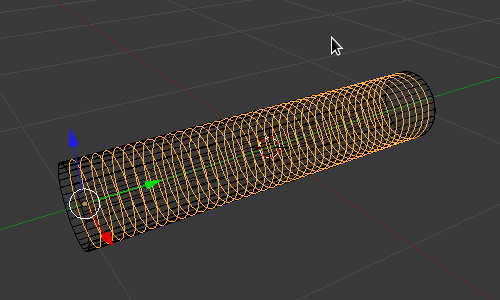
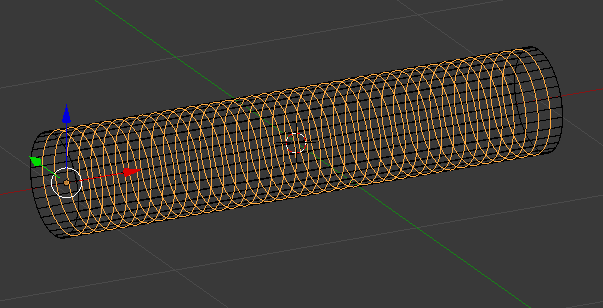
Reworked the building of the sampling cylinders and planes.

diff --git a/ficks_laws.rst b/ficks_laws.rst
@@ -1,8 +1,8 @@
 .. _fick:
 
-*********************************************
++++++++++++++++++++++++++++++++++++++++++++++++
 Fick's 1st and 2nd Laws
-*********************************************
++++++++++++++++++++++++++++++++++++++++++++++++
 
 Our goal in this tutorial is to evaluate Fick’s 1st and 2nd Laws using 
 simulations of discrete diffusing particles. To do so, we design the 
@@ -33,17 +33,38 @@ The second part of the tutorial will involve building the "instrumentation"
 required to measure the concentration along the cylinder. This will be much
 more tedious.
 
+Before getting started, you might find it helpful to watch the following video.
+This video walks you through the entire process of building, instrumenting, and
+running the simulation. However, the video was made with an earlier version of
+CellBlender and is not completely accurate when used with the current CellBlender.
+However, it does provide a good overview of the entire process. Additionally most
+of the Blender geometry manipulation hasn't changed much, so you might be able to
+follow those sections directly.
 
 .. warning::
 
+   This video was made with older versions of both Blender and CellBlender.
+   Much of the mesh manipulation is the same but the interface may look different.
+   Additionally, as noted above, the cylinder is built along the "x" axis in the
+   current verion of this tutorial while it was built along the "y" axis in the video.
 
-   Note that the second portion of this tutorial is not completed yet.
+.. raw:: html
+
+    <video id="my_video_1" class="video-js vjs-default-skin" controls
+      preload="metadata" width="960" height="540" 
+      data-setup='{"example_option":true}'>
+      <source src="http://www.mcell.psc.edu/tutorials/videos/main/ficks_laws.ogg" type='video/ogg'/>
+    </video>
+
+.. _blend file: https://www.mcell.org/tutorials/downloads/ficks_law.blend
 
 
-.. _fick_create_mesh: 
 
-Create the Cylinder Geometry
----------------------------------------------
+
+
+*****************************************************
+Part 1: Building the Model and Running the Simulation
+*****************************************************
 
 Begin by starting Blender with CellBlender enabled.
 
@@ -52,7 +73,14 @@ key until all objects - Cube, lamp, camera - are highlighted (orange outline).
 Then hit the **x** key and click **Delete** to delete the default Cube, lamp, 
 camera, and anything else in your scene.
 
-Next, create a cylinder by hitting **Shift-a**, and selecting
+
+
+.. _fick_create_mesh: 
+
+Create the Cylinder Geometry
+---------------------------------------------
+
+Create a cylinder by hitting **Shift-a**, and selecting
 **Mesh>Cylinder**. Hit **s**, **Shift-z**, **0.2**, and **Enter** to confirm.
 Hit **r**, **y**, **90**, and **Enter** to rotate it 90 degrees around the
 y-axis (aligns cylinder along the x axis). This will be the main cylinder through
@@ -88,7 +116,7 @@ See :ref:`define_region` if you need help with this.
 .. image:: ./images/CellBlender_model_objects_panel_add_reg.png
 .. image:: ./images/CellBlender_model_objects_panel_regions_added.png
 
-Then, enter **Edit Mode** by hitting **Tab**.
+Then, enter **Edit Mode** by hitting **Tab** (with mouse cursor in 3D window).
 
 In order to select all vertices on both sides of an object (what we want),
 you should disable the "Limit selection to visible" button by clicking
@@ -108,8 +136,10 @@ dragging around it.
 .. image:: ./images/Ficks_Box_Selected_Left.png
 
 Go back to the Model Objects subpanel and select the "**left_end**" region that you
-created earlier. Then click the "**Assign**" button to tag those faces as the "left_end"
-of your Cylinder.
+created earlier. Then click the "**Assign**" button to tag those selected faces to the
+"left_end" surface region of your Cylinder.
+
+.. image:: ./images/Ficks_Assign_Button.png
 
 Hit **a** to deselect everything in the mesh. Then repeat the process for the
 right end of your cylinder (assign the faces on the right end to the "right_end"
@@ -306,7 +336,7 @@ If this is not working properly, now is the time to go back and correct any prob
 Full Length Simulation
 ---------------------------------------------
 
-If everything has gone as expected, try running for the entire length of 5000 iterations.
+If everything has gone as expected, try running for the entire time length of 5000 iterations.
 
 Change the **Iterations** from to "**iters / 10**" back to "**iters**" and run again.
 
@@ -327,113 +357,162 @@ following animation (although this one is sampled in non-linear time):
 .. image:: ./images/Ficks_animation.gif
 
 
+*****************************************************
+Part 2: Instrumentation and Measurements
+*****************************************************
 
+The model built and run in the previous section is complete, and we will not
+be modifying it in this section. We will, however, add some "instrumentation"
+which will help us make measurements so we can quantify the results obtained
+from that simulation.
 
+Our "instrumentation" will consist of a series of disks and very short cylinder
+volumes which divide the cylinder along its length to facilitate counting of the
+molecules by MCell. In this tutorial we will divide the cylinder into 40 segments.
+This can be done manually (segment by segment) or it can be automated. We will show
+some aspects of each approach.
 
-SECOND PORTION OF TUTORIAL (not finished yet)
----------------------------------------------
+To create the geometry, we will demonstrate Blender's built-in array capability.
 
-
-
-If you would rather skip the mesh creation part, you can simply download the
-`blend file`_ and advance to the :ref:`fick_annotate` section. Otherwise you
-should watch the video or follow along with the instructions after the video.
-
+To create the MCell model will use a text editor to duplicate MDL sections repeatedly.
+While this process is somewhat tedious, it does suggest the possibility of using
+a simple program for the repetition. These are all valid approaches that might be
+helpful in certain circumstances.
 
 .. warning::
 
-   This video was made with older versions of both Blender and CellBlender.
-   Much of the mesh manipulation is the same but the interface may look different.
-   Additionally, as noted above, the cylinder is built along the "x" axis in the
-   newer version.
+   Note that any MDL modified by hand cannot currently be imported back into
+   CellBlender. This might influence your decision on which approach to use.
 
-.. raw:: html
+Before getting started, let's hide the molecules that we've been simulating
+so they don't get in the way of our mesh building operations. In the upper
+right corner of the standard Blender screen layout you will find a panel known
+as the "Outliner" (shown below). The outliner can be used to show and explore
+all of the objects in the Blender scene (and more). For our purposes here, we
+just want to be able to show and hide the molecule that have been created by
+the simulation. These are all contained under the "molecules" object, so click
+the small plus sign next to the name "molecules" and that will display one line
+for each type of molecule ("species") that's been created in our simulation.
 
-    <video id="my_video_1" class="video-js vjs-default-skin" controls
-      preload="metadata" width="960" height="540" 
-      data-setup='{"example_option":true}'>
-      <source src="http://www.mcell.psc.edu/tutorials/videos/main/ficks_laws.ogg" type='video/ogg'/>
-    </video>
+.. image:: ./images/Ficks_outliner_panel.png
 
-.. _blend file: https://www.mcell.org/tutorials/downloads/ficks_law.blend
+In this case, we've only defined one molecule type that we've called "vm",
+so we only see the entry "mol_vm" in the list. If you click on the "eye" symbol
+on that line it will toggle the display of the molecules. Click it a few
+times to hide and show the molecules. You'll notice that you can do the same
+for the Cylinder (or any other object in the scene). For this next step, we
+want to show the Cylinder but hide the molecules. Be sure to leave the outliner
+in that state before proceding. The next step also assumes that your 3D cursor
+is at the origin. You can ensure this with "**Shift-S**" and then clicking on
+"**Cursor to Center**".
+
+.. note:: Blender uses the right mouse button for most selection, but this runs
+   counter to the common "left click" used by common software. In Blender, the
+   left click moves the 3D cursor - which is where new objects are placed. For
+   this reason, it's handy to remember that the 3D cursor can be reset back to
+   the origin with the "**Shift-S**" / "**Cursor to Center**" sequence.
 
 
+Building Sampling Cylinders
+---------------------------------------------
 
-We now need to create a series of shorter sampling cylinders inside the long
-one. To do so, hit **Shift-a** and once again select **Mesh>Cylinder**. We will
-make these sampling cylinders slightly smaller than the main cylinder to avoid
+We begin our "instrumentaion" by creating a series of short sampling cylinders
+inside the long one. To do so, hit **Shift-a** and once again select **Mesh>Cylinder**.
+We will make these sampling cylinders slightly smaller than the main cylinder to avoid
 coincident meshes: Hit **s**, **Shift-z**, **0.199**, and **Enter**. Hit **r**,
-**x**, **90**, and **Enter**. Next, hit **s**, **y**, **0.024875**, and
-**Enter**. Hit **g**, **y**, and **-0.975** to move it very close to the left
-end of the end of larger cylinder (they don't touch though). 
+**y**, **90**, and **Enter**. Next, hit **s**, **x**, **0.024875**, and
+**Enter**. Hit **g**, **x**, and **-0.975** followed by **Enter** to move it very
+close to the left end of the end of larger cylinder (they don't touch though).
 
-Rename this smaller cylinder from **Cylinder.001** to **C**. Be sure to
-triangulate this mesh in the same way we did with the larger cylinder.
+Triangulate this small cylinder by entering Edit mode with **Tab**, then pressing
+**Control-T**, then exiting Edit mode with **Tab**.
+
+Using the outliner, rename this smaller cylinder from **Cylinder.001** to **C**
+by double clicking on the **Cylinder.001** and typing **C** followed by the
+**Enter** key.
+
+Now, we will use Blender's (very useful) **Array** modifier to replicate this
+sampling cylinder 40 times. To do so, hit the **Object Modifiers** button (small
+wrench), and from the **Add Modifier** drop-down box, select **Array**. Change 
+**Count** to **40**. Deselect **Relative Offset** and select **Constant Offset**.
+Then change the third field under **Constant Offset** (Z axis of the cylinder)
+to **2.01005**. 
 
 .. image:: ./images/ficks_array.png
 
-Now, we will use Blender's (very useful) **Array** modifier to replicate this
-sampling cylinder 40 times. To do so, hit the **Object Modifiers** button, and
-from the **Add Modifier** drop-down box, select **Array**. Change **Count** to
-**40**. Deselect **Relative Offset** and select **Constant Offset**. Then
-change the third field under **Constant Offset** to **-2.01005**. 
+Now we need to make each cylinder a unique object. To do this, first hit the
+**Apply** button under the **Array** modifier. Then enter **Edit Mode** (with
+**Tab** key), hit **p**, and select **By loose parts** in the **Separate** menu.
+This will split each discontinuous mesh into a unique object.
 
 .. image:: ./images/ficks_loose_parts.png
 
-Now we need to make each cylinder a unique object. To do this, first hit the
-**Apply** button under the **Array** modifier. Then enter **Edit Mode**, hit
-**p**, and select **By loose parts** in the **Separate** menu. This will split
-each discontinuous mesh into a unique object.
+They will be named **C**, **C.001**, **C.002**, etc. The last cylinder in the
+sequence will be named **C**. Rename it to **C.040**. This will make things
+cleaner when we want to count molecules in MCell later. Hit **Tab** to enter
+**Object Mode** and hit **a** until nothing is selected (nothing outlined in
+orange).
 
 .. image:: ./images/ficks_c040.png
 
-They will be named **C**, **C.001**, **C.002**, etc. The last cylinder in the
-sequence should be named **C**. Rename it to **C.040**. This will make things
-cleaner when we want to count molecules in MCell later. Hit **Tab** to enter
-**Object Mode**.
-
-.. image:: ./images/ficks_fill_circle.png
-
 Finally, we will create a series of circular sampling planes that lie between
-each of these cylinders. Create a circle by hitting **Shift-a**, and selecting
-**Mesh>Circle**. In the **Tool Shelf** (hit **t** to toggle it), hit **Fill**
-under **Add Circle**. Hit **s**, **0.199**, and **Enter**. Hit **r**, **x**,
-**90**, and **Enter**. Hit **g**, **y**, and **-0.95** to move it very close to
-the right side of our smaller cylinder. Once again, be sure to triangulate this
-mesh.
+each of these cylinders. Toggle the wire frame visibility with the "**z**" key
+to see through the mesh. Create a circle by hitting **Shift-a**, and selecting
+**Mesh>Circle**. Open the **Tool Shelf** if needed (hit **t** to toggle it), and
+click the "**Tools**" tab. You may need to scroll down to find the "Add Circle" panel in
+the Tools tab. Change the "Fill Type" to "Triangle Fan". Hit **s**, **0.199**, and
+**Enter**. Hit **r**, **y**, **90**, and **Enter**. Hit **g**, **x**, and **-0.95**
+and **Enter** to move it very close to the right side of our smaller cylinder (which
+is on the left side of our larger cylinder).
+
+Triangulate this small circle by entering Edit mode with **Tab**, then pressing
+**Control-T**, then exiting Edit mode with **Tab**.
+
+.. image:: ./images/Ficks_fill_circle.png
+
+Next, we will replicate this plane by adding an **Array** modifier similar to
+what we did previously with the cylinders. Click the **Add Modifier** button and
+select **Array**. Set **Count** to **39**, disable **Relative Offset**, enable 
+**Constant Offset** and set the **Z** value of the **Constant Offset** to be 
+**0.251255**.
+
+.. image:: ./images/Ficks_disk_array_modifier.png
+
+
+Then click **Apply** to apply the modifier.
 
 .. image:: ./images/ficks_circles.png
 
-Next, we will replicate this plane by using an **Array** modifier similar to
-what we did previously with the cylinders. Set **Count** to **39** and
-**Absolute Offset** to **-0.251255**. Also separate the object **By loose
-parts** in the same way you did with the small cylinder. 
+As before, separate the disks by entering edit mode (**Tab**) and use the "**p**"
+key to separate the object **By loose parts** in the same way you did with the small
+cylinder.
 
-.. image:: ./images/ficks_circle039.png
+.. image:: ./images/Ficks_after_sep_circles.png
 
-Rename the final plane from **Circle** to **Circle.039**.
+Exit edit mode with the **Tab** key, and then rename the final plane from **Circle** to **Circle.039**.
+
+We need every objects' origin to be centered at the origin. Select every mesh
+object by pressing the **a** key until everything is highlighted orange. Then hit 
+**Ctrl-a** and select **Location**. Then hit **Ctrl-a** again and select **Rotation**.
 
 .. image:: ./images/ficks_ctrl_a.png
 
-We need every objects' origin to be centered at the origin. With every mesh
-object still selected, hit **Ctrl-a** and select **Location**. Then hit
-**Ctrl-a** again and select **Rotation**.
+At this point we have a total of 80 non-molecule objects in our model:
 
-.. _fick_add_params: 
+* 1 long cylinder named **Cylinder**
+* 40 short cylinders named **C.001** to **C.040**
+* 39 circular disks named **Circle.001** to **Circle.039**
 
-Adding the Other Model Parameters
----------------------------------
+You should be in "Object" mode, and you should be able to click on each object's
+name in the Outliner panel and see the object be selected in the 3D view. When
+you're done verifying this, deselect everything by pressing the **a** key until
+everything is unselected (black).
 
-First, add a single volume molecule called **vm** via CellBlender's **Define
-Molecules** panel and set it to be a **Volume Molecule**. Then, in the **Define
-Surface Classes** panel, check **Include Surface Classes** and **Include Modify
-Surface Regions** since we will use surface classes and modify surface regions;
-in the **Reaction Output Settings** panel check **Include Reaction Output** and
-in **Visualization Output Settings** check **Include Viz Output**. Next, we
-need to tell CellBlender to export our model geometry. To do so hit the **+**
-sign in the **Model Objects** panel, making sure that everything except the
-**Camera** and **Lamp** is selected.
- 
+
++++++++++++++++++++++++++++++++++++++++++++++++
+More work to be done ...
++++++++++++++++++++++++++++++++++++++++++++++++
+
 .. _fick_export: 
 
 Exporting the Project
